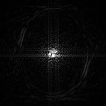
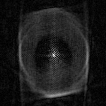
CryoSPARC working, improvement added to RELION

diff --git a/scripts/cryoSPARC.m b/scripts/cryoSPARC.m
@@ -14,7 +14,7 @@ filename = ...
 	'../results/cryoSPARC/5_percent_noise/';
 num_theta = 180;
 max_shift_err = 0;
-max_angle_err = 1;
+max_angle_err = 30;
 resolution_angle = 1;
 resolution_space = 1;
 L_pad = 260; 
@@ -136,15 +136,19 @@ for q=1:no_of_iterations
     
     % Calculate the probability of each projection.
     U = zeros(size(sel_projections, 2), 1);
+    U_dist = ...
+        zeros(size(sel_projections, 2),...
+        (2*max_angle_err)/resolution_angle + 1);
     for i=1:size(sel_projections, 2)
         % The orientation specified for this iteration.
         estimated_orientation = Orientation(selected_angles(i), 0);
         
         % Probability of the projection given the model.
-        U(i) = ...
+        [U(i), dist_vector] = ...
             calc_prob_projection(sel_projections(:, i),...
             f_image_estimate, estimated_orientation, noise_variance,...
             projection_parameters, prior_parameters);
+        U_dist(i, :) = dist_vector;
     end
 
 	for j=-max_angle_err:resolution_angle:max_angle_err
@@ -158,7 +162,7 @@ for q=1:no_of_iterations
 			orientation = Orientation(thetas_iter(i), 0);
 
 			% Calculate the prob of projection given orientation and model.
-			prob_proj = ...
+			[prob_proj, dist_proj] = ...
                 prob_of_proj_given_orientation(sel_projections(:, i),...
 				f_image_estimate, orientation, noise_variance,...
                 projection_parameters);
@@ -173,13 +177,14 @@ for q=1:no_of_iterations
             % The probability of each orientation.
 			prob_phi = 1/((2*max_angle_err)/resolution_angle + 1);
             
+            dist_i_orient = U_dist(i, :) - dist_proj;
+            prob_i_orient = 1/(sum(exp(vpa(dist_i_orient))));
+            
             % Save projections to find gradient and step-size.
 			projections_iter(:, i) = ...
-				vpa((prob_proj/U(i)).*(diff_proj./noise_variance)*...
-                prob_phi*resolution_angle);	
+				prob_i_orient.*(diff_proj./noise_variance);	
 			noisy_iter(:, i) = ...
-				vpa((prob_proj/U(i)).*(ones(size(diff_proj))./noise_variance)*...
-                prob_phi*resolution_angle);
+				prob_i_orient.*(ones(size(diff_proj))./noise_variance);
 		end
 		
 		% Calculate the gradient due to current estimate.

diff --git a/scripts/average_reconstruction_error.m b/scripts/average_reconstruction_error.m
@@ -7,21 +7,23 @@ function noise_estimate = average_reconstruction_error(f_image_estimate,...
     projection_length = projection_parameters.projection_length;
     max_angle_err = prior_parameters.max_angle_err;
     resolution_angle = prior_parameters.resolution_angle;
-    prob_phi = 1/((2*max_angle_err)/resolution_angle + 1);
 
     fourier_radial = reshape(f_image_estimate, [output_size, output_size]);
     
     U = zeros(size(f_projections, 2), 1);
+    U_dist = ...
+        zeros(size(f_projections, 2), (2*max_angle_err)/resolution_angle + 1);
     for i=1:size(f_projections, 2)
         f_proj = f_projections(:, i);
         % The orientation specified for this iteration.
         estimated_orientation = Orientation(theta_estimate(i), 0);
         
         % Probability of the projection given the model.
-        U(i) = ...
+        [U(i), dist_vector] = ...
             calc_prob_projection(f_proj,...
             f_image_estimate, estimated_orientation, sigmaNoise,...
             projection_parameters, prior_parameters);
+        U_dist(i, :) = dist_vector;
     end
     
     % Initialize noise estimate.
@@ -38,15 +40,17 @@ function noise_estimate = average_reconstruction_error(f_image_estimate,...
 			orientation = Orientation(theta_estimate(k) + j, 0);
             
             % Calculate the prob of projection given orientation and model.
-			prob_proj = ...
+			[~, dist_proj] = ...
                 prob_of_proj_given_orientation(f_proj,...
 				f_image_estimate, orientation, sigmaNoise,...
                 projection_parameters);
             
+            dist_k_orient = U_dist(k, :) - dist_proj;
+            prob_k_orient = 1/(sum(exp(vpa(dist_k_orient))));
+            
             % Calculate the probabiity of that projection.
             noise_estimate(:, k) = noise_estimate(:, k) +...
-                vpa((prob_proj/U(k))*0.5*abs(c_proj - f_proj).^2*prob_phi*...
-                resolution_angle);
+                prob_k_orient*0.5*abs(c_proj - f_proj).^2;
         end
     end
     noise_estimate = vpa(mean(noise_estimate(:)));

diff --git a/scripts/calc_prob_projection.m b/scripts/calc_prob_projection.m
@@ -1,4 +1,4 @@
-function prob = calc_prob_projection(...
+function [prob, dist_vector] = calc_prob_projection(...
 	f_proj, f_image, estimated_orientation, noise_estimate,...
 	projection_parameters, prior_parameters)
 
@@ -6,15 +6,18 @@ function prob = calc_prob_projection(...
 	max_angle_err = prior_parameters.max_angle_err;
 	resolution_angle = prior_parameters.resolution_angle;
 	angle_estimate = estimated_orientation.theta;
-    
-    prob_phi = 1/((2*max_angle_err)/resolution_angle + 1);
+    dist_vector = zeros(1, (2*max_angle_err)/resolution_angle + 1);
 
 	prob = 0;
 	for i=-max_angle_err:resolution_angle:max_angle_err
 		orientation = ...
 	        Orientation(angle_estimate + i, 0);
-		prob_orient = prob_of_proj_given_orientation(f_proj, f_image,...
+		[prob_orient, euler_dist] = prob_of_proj_given_orientation(f_proj, f_image,...
             orientation, noise_estimate, projection_parameters);
-		prob = prob + vpa(prob_orient*prob_phi*resolution_angle);
+		prob = prob + vpa(prob_orient);
+        
+        index_x = round(i/resolution_angle +...
+            (max_angle_err + resolution_angle)/resolution_angle);
+        dist_vector(index_x) = euler_dist;
 	end
 end

diff --git a/scripts/MAP2D.m b/scripts/MAP2D.m
@@ -9,12 +9,12 @@ P = padarray(P, [3, 3], 0.0);
 
 % Constants.
 sigmaNoiseFraction = 0.05;
-max_shift_amplitude = 1;
+max_shift_amplitude = 0;
 filename = ...
     '../results/bayesian_estimation/error_angles_and_shifts/server_epfl/5_percent_noise_2/';
 num_theta = 180;
 max_angle_err = 1;
-max_shift_err = 1;
+max_shift_err = 0;
 resolution_angle = 0.5;
 resolution_space = 1;
 no_of_iterations = 3;
@@ -117,6 +117,10 @@ imwrite(first_estimate_model, strcat(filename, num2str(num_theta),...
     '/first_estimate.png'));
 
 % Noise estimate.
+noise_estimate = average_reconstruction_error(f_image_estimate,...
+    f_projections, first_estimate_theta, first_estimate_shifts,...
+    projection_parameters, prior_parameters, 1/(sigmaNoise.^2));
+
 noise_estimate = zeros(projection_length, num_theta);
 parfor k=1:num_theta
     c_proj = project_fourier_alternate(fourier_radial,...

diff --git a/scripts/prob_of_proj_given_orientation.m b/scripts/prob_of_proj_given_orientation.m
@@ -11,8 +11,8 @@ function [prob, euler_dist] = prob_of_proj_given_orientation(f_proj, f_image,...
         orientation.theta, orientation.shift, projection_length);
     
     % Calculate the distance and the probability.
-    euler_dist = norm(c_proj - f_proj);
-    cons = vpa(((1/(2*pi))^projection_length)*(1/prod(sigmaNoise/90000))*1e25);
+    euler_dist = ...
+        vpa(sum((abs(f_proj - c_proj).^2)./(-2*(sigmaNoise))));
     prob = ...
-        cons*exp(vpa(sum((abs(f_proj - c_proj).^2)./(-2*(sigmaNoise))))*1e-2);
+        exp(vpa(sum((abs(f_proj - c_proj).^2)./(-2*(sigmaNoise))))*1e-2);
 end

diff --git a/scripts/backproject_fourier_alternate.m b/scripts/backproject_fourier_alternate.m
@@ -42,7 +42,8 @@ function fourier_radial=backproject_fourier_alternate(f_p, prj_angles, shifts)
 	size_matrix = max(max(x(:)), max(y(:)));
 	fourier_radial = zeros(size_matrix, size_matrix);
 	count_matrix = zeros(size_matrix, size_matrix);
-
+    
+    prj_angles = mod(prj_angles, 180);
 	[prj_angles, prj_sort] = sort(prj_angles);
 	f_p = f_p(:, prj_sort);
 	[unique_angles, unique_indices] = unique(prj_angles);
